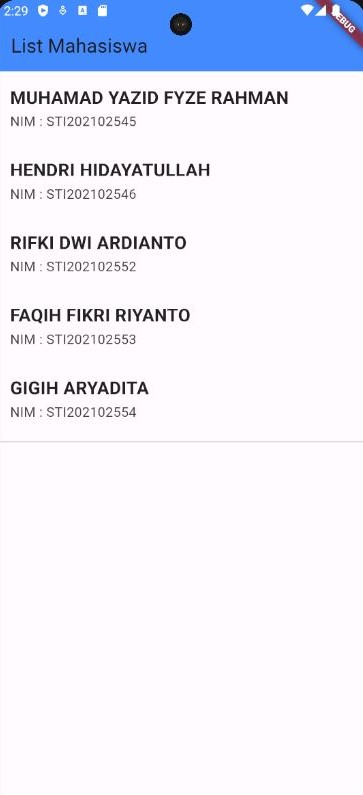
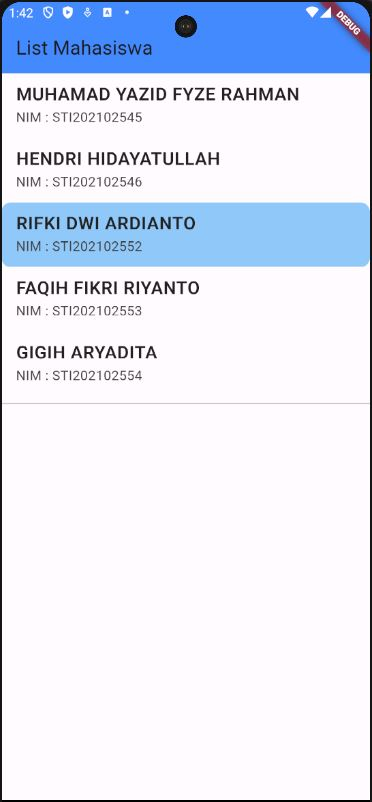
Jobsheet 5

Changed region(s): [[0.0, 0.0, 1.0, 1.0]]

diff --git a/lib/main.dart b/lib/main.dart
@@ -20,67 +20,70 @@ class MainApp extends StatelessWidget {
           ),
         ),
         body: const Center(
-            child: Column(
-          children: [
-            ListMhs(
+          child: Column(
+            children: [
+              ListMhs(
                 nama: 'MUHAMAD YAZID FYZE RAHMAN',
-                nim: 'NIM : ' 'STI202102545'),
-            ListMhs(nama: 'HENDRI HIDAYATULLAH', nim: 'NIM : ' 'STI202102546'),
-            ListMhs(nama: 'RIFKI DWI ARDIANTO', nim: 'NIM : ' 'STI202102552'),
-            ListMhs(nama: 'FAQIH FIKRI RIYANTO', nim: 'NIM : ' 'STI202102553'),
-            ListMhs(nama: 'GIGIH ARYADITA', nim: 'NIM : ' 'STI202102554'),
-            Divider()
-          ],
-        )),
+                nim: 'NIM : ' 'STI202102545',
+              ),
+              ListMhs(
+                nama: 'HENDRI HIDAYATULLAH',
+                nim: 'NIM : ' 'STI202102546',
+              ),
+              ListMhs(
+                nama: 'RIFKI DWI ARDIANTO',
+                nim: 'NIM : ' 'STI202102552',
+                highlightBackground: true, // menandai latar belakang
+              ),
+              ListMhs(
+                nama: 'FAQIH FIKRI RIYANTO',
+                nim: 'NIM : ' 'STI202102553',
+              ),
+              ListMhs(
+                nama: 'GIGIH ARYADITA',
+                nim: 'NIM : ' 'STI202102554',
+              ),
+              Divider(),
+            ],
+          ),
+        ),
       ),
     );
   }
 }
 
 class ListMhs extends StatelessWidget {
+  final String nama;
+  final String nim;
+  final bool highlightBackground;
+
   const ListMhs({
     super.key,
     required this.nama,
     required this.nim,
+    this.highlightBackground = false,
   });
-
-  final String nama;
-  final String nim;
 
   @override
   Widget build(BuildContext context) {
-    return Padding(
-      padding: const EdgeInsets.all(15),
-      child: Row(
-        children: [
-          Expanded(
-            /*1*/
-            child: Column(
-              crossAxisAlignment: CrossAxisAlignment.start,
-              children: [
-                /*2*/
-                Padding(
-                  padding: const EdgeInsets.only(bottom: 1),
-                  child: Text(
-                    nama,
-                    style: TextStyle(
-                      color: Colors.grey[900],
-                      fontSize: 20,
-                      fontWeight: FontWeight.bold,
-                    ),
-                  ),
-                ),
-                Text(
-                  nim,
-                  style: TextStyle(
-                    fontSize: 15,
-                    color: Colors.grey[800],
-                  ),
-                ),
-              ],
-            ),
-          ),
-        ],
+    return Container(
+      decoration: BoxDecoration(
+        color: highlightBackground ? Colors.blue.withOpacity(0.5) : null,
+        borderRadius: BorderRadius.circular(10),
+      ),
+      margin: const EdgeInsets.all(0),
+      child: ListTile(
+        title: Text(
+          nama,
+          style: TextStyle(
+              color: Colors.grey[900],
+              fontSize: 20,
+              fontWeight: FontWeight.w600),
+        ),
+        subtitle: Text(
+          nim,
+          style: TextStyle(fontSize: 15, color: Colors.grey[800]),
+        ),
       ),
     );
   }
